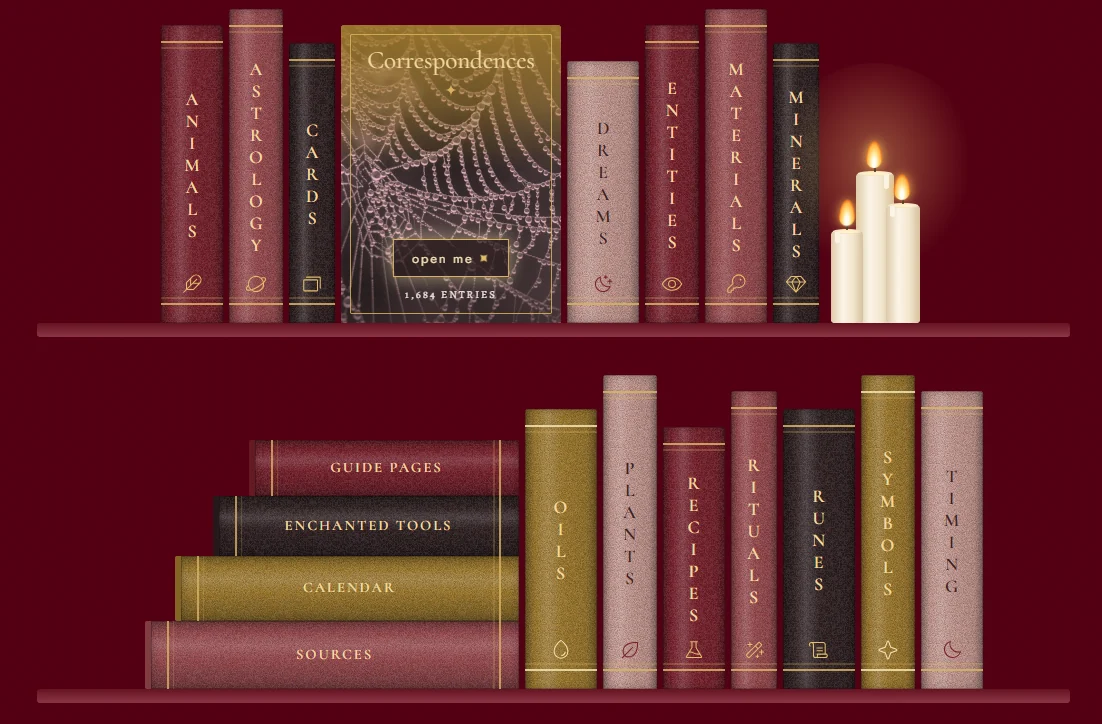
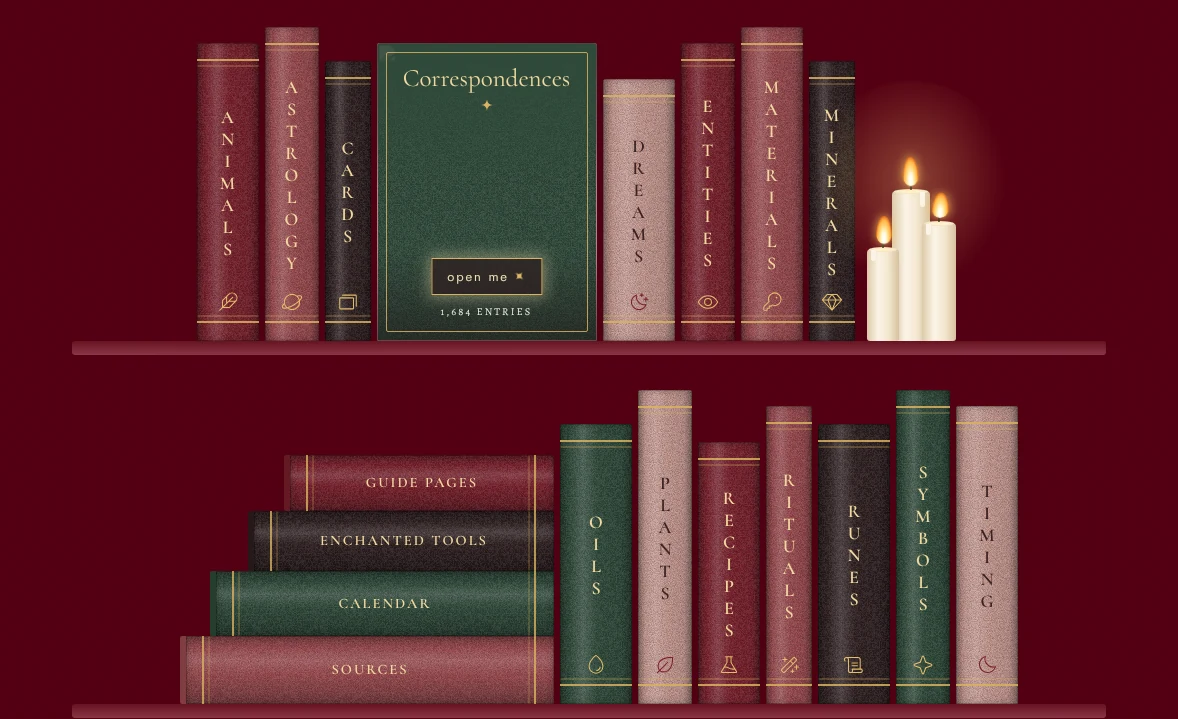
Shelf: bottle green in place of the mustard book colour; the Market's Manuscript picture retaken
Correspondences, Oils, Symbols and the Calendar now wear a deep bottle green with the same gold
lettering and bands as the other books.

Claude-Session: https://claude.ai/code/session_01XEMf5iAfStqwCnALF73gC2

diff --git a/market/index.html b/market/index.html
@@ -41,7 +41,7 @@
   <h1>The Market</h1>
   <p class="lede">Courses, grimoire templates and the Manuscript. Everything you buy stays in your library, ready whenever you are.</p>
 </section>
-<section class="cards shop-grid"><a class="card shop-card featured" href="../manuscript/join/"><figure class="shop-pic"><img src="../assets/products/manuscript.webp" alt="" width="1102" height="724" loading="lazy"></figure><h3>The Magick Manuscript</h3><p>15 cross-linked grimoires, 20,000+ pages, growing weekly.</p><p class="price">Membership</p></a><a class="card shop-card" href="../market/witchcraft-101/"><figure class="shop-pic wide"><img src="../assets/products/witchcraft-101.webp" alt="" width="1600" height="400" loading="lazy"></figure><h3>Witchcraft 101</h3><p>A self-paced beginner course in seven units, grounded in published sources.</p><p class="price">$10+</p></a><a class="card shop-card" href="../market/witchcraft-111/"><figure class="shop-pic wide"><img src="../assets/products/witchcraft-111.webp" alt="" width="1600" height="400" loading="lazy"></figure><h3>Witchcraft 111</h3><p>Seven units: divination, astrology, herbalism, ancestors, deities, runes and crystals.</p><p class="price">$20+</p></a><a class="card shop-card" href="../market/blank-grimoire/"><figure class="shop-pic"><img src="../assets/products/blank-grimoire.webp" alt="" width="691" height="802" loading="lazy"></figure><h3>The Blank Grimoire</h3><p>You&#039;ll get to build your own digital grimoire with ease!</p><p class="price">$10+</p></a><a class="card shop-card" href="../market/crystal-grimoire/"><figure class="shop-pic"><img src="../assets/products/crystal-grimoire.webp" alt="" width="1005" height="600" loading="lazy"></figure><h3>Blank Crystal Grimoire</h3><p>Try a simplified version of The Magick Muse grimoire free.</p><p class="price">Free</p></a></section></main>
+<section class="cards shop-grid"><a class="card shop-card featured" href="../manuscript/join/"><figure class="shop-pic"><img src="../assets/products/manuscript.webp" alt="" width="1178" height="719" loading="lazy"></figure><h3>The Magick Manuscript</h3><p>15 cross-linked grimoires, 20,000+ pages, growing weekly.</p><p class="price">Membership</p></a><a class="card shop-card" href="../market/witchcraft-101/"><figure class="shop-pic wide"><img src="../assets/products/witchcraft-101.webp" alt="" width="1600" height="400" loading="lazy"></figure><h3>Witchcraft 101</h3><p>A self-paced beginner course in seven units, grounded in published sources.</p><p class="price">$10+</p></a><a class="card shop-card" href="../market/witchcraft-111/"><figure class="shop-pic wide"><img src="../assets/products/witchcraft-111.webp" alt="" width="1600" height="400" loading="lazy"></figure><h3>Witchcraft 111</h3><p>Seven units: divination, astrology, herbalism, ancestors, deities, runes and crystals.</p><p class="price">$20+</p></a><a class="card shop-card" href="../market/blank-grimoire/"><figure class="shop-pic"><img src="../assets/products/blank-grimoire.webp" alt="" width="691" height="802" loading="lazy"></figure><h3>The Blank Grimoire</h3><p>You&#039;ll get to build your own digital grimoire with ease!</p><p class="price">$10+</p></a><a class="card shop-card" href="../market/crystal-grimoire/"><figure class="shop-pic"><img src="../assets/products/crystal-grimoire.webp" alt="" width="1005" height="600" loading="lazy"></figure><h3>Blank Crystal Grimoire</h3><p>Try a simplified version of The Magick Muse grimoire free.</p><p class="price">Free</p></a></section></main>
 <dialog class="join-pop" id="join-pop" aria-labelledby="join-pop-h"><button class="join-x" type="button" data-close aria-label="Close">&times;</button><p class="eyebrow">Members Only</p><h2 id="join-pop-h">This Lives Inside the Manuscript</h2><p>Fifteen cross-linked grimoires and 20,518 pages of researched magick, open to members. Follow a thread from a deity to the herb to the day of the week to the ritual that uses all three.</p><div class="actions"><a class="btn" href="../manuscript/join/">Become a Member</a><a class="btn ghost" href="../manuscript/sneak-peek/">Take a Sneak Peek</a></div><p class="small">Already a member? <a href="../manuscript/login/">Sign in</a></p></dialog><footer class="site">
   <div class="wrap foot">
     <a class="logo" href="../">Magick Muse</a>

diff --git a/styles.css b/styles.css
@@ -1569,7 +1569,7 @@ details.toggle > :not(summary) + :not(summary) { margin-top: var(--gap-text); }
 /* each grimoire its own thickness and height, like a real shelf (classes set in lib/shelf.php) */
 .bk.wa { --sw: 46px; } .bk.wb { --sw: 54px; } .bk.wc { --sw: 62px; } .bk.wd { --sw: 72px; }
 .bk.ha { --sh: 262px; } .bk.hb { --sh: 280px; } .bk.hc { --sh: 298px; } .bk.hd { --sh: 314px; }
-.bk.t1 { --bc: #7a1f2b; } .bk.t2 { --bc: #9c4a4f; } .bk.t3 { --bc: #2e1f20; } .bk.t4 { --bc: #a07a2c; } .bk.t5 { --bc: #c99a92; --ink-on: #3a2224; }
+.bk.t1 { --bc: #7a1f2b; } .bk.t2 { --bc: #9c4a4f; } .bk.t3 { --bc: #2e1f20; } .bk.t4 { --bc: #2f4a3a; } .bk.t5 { --bc: #c99a92; --ink-on: #3a2224; }
 .bk .spine { position: absolute; inset: 0; transition: opacity .3s; box-shadow: var(--worn);
   background: var(--leather), linear-gradient(90deg, rgba(0,0,0,.28) 0%, rgba(0,0,0,0) 14%, rgba(255,255,255,.16) 32%, rgba(0,0,0,0) 52%, rgba(0,0,0,.08) 86%, rgba(0,0,0,.3) 100%), var(--bc); }
 .band { position: absolute; left: 0; right: 0; height: 2px; background: var(--gold); opacity: .85; }
@@ -1586,8 +1586,6 @@ details.toggle > :not(summary) + :not(summary) { margin-top: var(--gap-text); }
   -webkit-mask: var(--star) center / contain no-repeat; mask: var(--star) center / contain no-repeat;
 }
 svg.bk-star { width: 22px; height: 22px; margin-left: -11px; background: none; -webkit-mask: none; mask: none; color: var(--gold-text); }
-.bk.t4 .band, .bk.t4 i.bk-star { background: #f3e2b4; }
-.bk.t4 svg.bk-star { color: #f3e2b4; }
 .bk.t5 svg.bk-star { color: #7a1f2b; }
 
 /* the front cover, shown on hover */
@@ -1652,7 +1650,7 @@ html.duo .bk .cover img, html.duo .b3d-front .face img { filter: url(#mm-duotone
   border-left: 6px solid color-mix(in srgb, #000 18%, var(--bc)); }
 .slab.s1 { width: 290px; margin-left: 14px; }
 .slab.s2 { width: 330px; height: 42px; margin-right: 8px; }
-.slab.t1 { --bc: #7a1f2b; } .slab.t2 { --bc: #9c4a4f; } .slab.t3 { --bc: #2e1f20; } .slab.t4 { --bc: #a07a2c; } .slab.t5 { --bc: #c99a92; }
+.slab.t1 { --bc: #7a1f2b; } .slab.t2 { --bc: #9c4a4f; } .slab.t3 { --bc: #2e1f20; } .slab.t4 { --bc: #2f4a3a; } .slab.t5 { --bc: #c99a92; }
 /* lifted out and turned upright: the spine lettering turns with it */
 .b3d.lying .b3d-spine .t { text-orientation: mixed; }
 @media (max-width: 640px) { .shelves { gap: 1.6rem; } .bk.lying, .bk.lying.open, .bk.lying:focus-visible { width: 250px; height: 50px; } .bk.lying .bk-title { font-size: 12px; left: 60px; right: 28px; letter-spacing: .08em; } .slab.s1 { width: 226px; } .slab.s2 { width: 258px; height: 36px; } }

diff --git a/blog/astrology-for-witches.html b/blog/astrology-for-witches.html
@@ -84,7 +84,7 @@
   <link rel="preload" href="../fonts/cormorant-400-italic.woff2" as="font" type="font/woff2" crossorigin>
   <link rel="preload" href="../fonts/alegreya-500.woff2" as="font" type="font/woff2" crossorigin>
   <script src="../prefs.js?v=da5e7b8994"></script>
-  <link rel="stylesheet" href="../styles.css?v=ec9b6f9d91">
+  <link rel="stylesheet" href="../styles.css?v=a248de59dd">
   <script>
     window.dataLayer = window.dataLayer || [];
     function gtag(){dataLayer.push(arguments);}

diff --git a/blog/candle-magick-for-beginners.html b/blog/candle-magick-for-beginners.html
@@ -84,7 +84,7 @@
   <link rel="preload" href="../fonts/cormorant-400-italic.woff2" as="font" type="font/woff2" crossorigin>
   <link rel="preload" href="../fonts/alegreya-500.woff2" as="font" type="font/woff2" crossorigin>
   <script src="../prefs.js?v=da5e7b8994"></script>
-  <link rel="stylesheet" href="../styles.css?v=ec9b6f9d91">
+  <link rel="stylesheet" href="../styles.css?v=a248de59dd">
   <script>
     window.dataLayer = window.dataLayer || [];
     function gtag(){dataLayer.push(arguments);}

diff --git a/blog/crystals-for-beginners.html b/blog/crystals-for-beginners.html
@@ -84,7 +84,7 @@
   <link rel="preload" href="../fonts/cormorant-400-italic.woff2" as="font" type="font/woff2" crossorigin>
   <link rel="preload" href="../fonts/alegreya-500.woff2" as="font" type="font/woff2" crossorigin>
   <script src="../prefs.js?v=da5e7b8994"></script>
-  <link rel="stylesheet" href="../styles.css?v=ec9b6f9d91">
+  <link rel="stylesheet" href="../styles.css?v=a248de59dd">
   <script>
     window.dataLayer = window.dataLayer || [];
     function gtag(){dataLayer.push(arguments);}

diff --git a/blog/essential-witch-tools-for-beginners.html b/blog/essential-witch-tools-for-beginners.html
@@ -84,7 +84,7 @@
   <link rel="preload" href="../fonts/cormorant-400-italic.woff2" as="font" type="font/woff2" crossorigin>
   <link rel="preload" href="../fonts/alegreya-500.woff2" as="font" type="font/woff2" crossorigin>
   <script src="../prefs.js?v=da5e7b8994"></script>
-  <link rel="stylesheet" href="../styles.css?v=ec9b6f9d91">
+  <link rel="stylesheet" href="../styles.css?v=a248de59dd">
   <script>
     window.dataLayer = window.dataLayer || [];
     function gtag(){dataLayer.push(arguments);}

diff --git a/blog/herbalism-for-witches.html b/blog/herbalism-for-witches.html
@@ -84,7 +84,7 @@
   <link rel="preload" href="../fonts/cormorant-400-italic.woff2" as="font" type="font/woff2" crossorigin>
   <link rel="preload" href="../fonts/alegreya-500.woff2" as="font" type="font/woff2" crossorigin>
   <script src="../prefs.js?v=da5e7b8994"></script>
-  <link rel="stylesheet" href="../styles.css?v=ec9b6f9d91">
+  <link rel="stylesheet" href="../styles.css?v=a248de59dd">
   <script>
     window.dataLayer = window.dataLayer || [];
     function gtag(){dataLayer.push(arguments);}

diff --git a/blog/how-my-witchcraft-practice-has-changed.html b/blog/how-my-witchcraft-practice-has-changed.html
@@ -84,7 +84,7 @@
   <link rel="preload" href="../fonts/cormorant-400-italic.woff2" as="font" type="font/woff2" crossorigin>
   <link rel="preload" href="../fonts/alegreya-500.woff2" as="font" type="font/woff2" crossorigin>
   <script src="../prefs.js?v=da5e7b8994"></script>
-  <link rel="stylesheet" href="../styles.css?v=ec9b6f9d91">
+  <link rel="stylesheet" href="../styles.css?v=a248de59dd">
   <script>
     window.dataLayer = window.dataLayer || [];
     function gtag(){dataLayer.push(arguments);}

diff --git a/blog/how-to-cast-a-spell-for-beginners.html b/blog/how-to-cast-a-spell-for-beginners.html
@@ -84,7 +84,7 @@
   <link rel="preload" href="../fonts/cormorant-400-italic.woff2" as="font" type="font/woff2" crossorigin>
   <link rel="preload" href="../fonts/alegreya-500.woff2" as="font" type="font/woff2" crossorigin>
   <script src="../prefs.js?v=da5e7b8994"></script>
-  <link rel="stylesheet" href="../styles.css?v=ec9b6f9d91">
+  <link rel="stylesheet" href="../styles.css?v=a248de59dd">
   <script>
     window.dataLayer = window.dataLayer || [];
     function gtag(){dataLayer.push(arguments);}

diff --git a/blog/how-to-celebrate-samhain.html b/blog/how-to-celebrate-samhain.html
@@ -84,7 +84,7 @@
   <link rel="preload" href="../fonts/cormorant-400-italic.woff2" as="font" type="font/woff2" crossorigin>
   <link rel="preload" href="../fonts/alegreya-500.woff2" as="font" type="font/woff2" crossorigin>
   <script src="../prefs.js?v=da5e7b8994"></script>
-  <link rel="stylesheet" href="../styles.css?v=ec9b6f9d91">
+  <link rel="stylesheet" href="../styles.css?v=a248de59dd">
   <script>
     window.dataLayer = window.dataLayer || [];
     function gtag(){dataLayer.push(arguments);}

diff --git a/blog/how-to-dispose-of-a-spell.html b/blog/how-to-dispose-of-a-spell.html
@@ -84,7 +84,7 @@
   <link rel="preload" href="../fonts/cormorant-400-italic.woff2" as="font" type="font/woff2" crossorigin>
   <link rel="preload" href="../fonts/alegreya-500.woff2" as="font" type="font/woff2" crossorigin>
   <script src="../prefs.js?v=da5e7b8994"></script>
-  <link rel="stylesheet" href="../styles.css?v=ec9b6f9d91">
+  <link rel="stylesheet" href="../styles.css?v=a248de59dd">
   <script>
     window.dataLayer = window.dataLayer || [];
     function gtag(){dataLayer.push(arguments);}

diff --git a/blog/how-to-find-reliable-witchcraft-information.html b/blog/how-to-find-reliable-witchcraft-information.html
@@ -84,7 +84,7 @@
   <link rel="preload" href="../fonts/cormorant-400-italic.woff2" as="font" type="font/woff2" crossorigin>
   <link rel="preload" href="../fonts/alegreya-500.woff2" as="font" type="font/woff2" crossorigin>
   <script src="../prefs.js?v=da5e7b8994"></script>
-  <link rel="stylesheet" href="../styles.css?v=ec9b6f9d91">
+  <link rel="stylesheet" href="../styles.css?v=a248de59dd">
   <script>
     window.dataLayer = window.dataLayer || [];
     function gtag(){dataLayer.push(arguments);}
